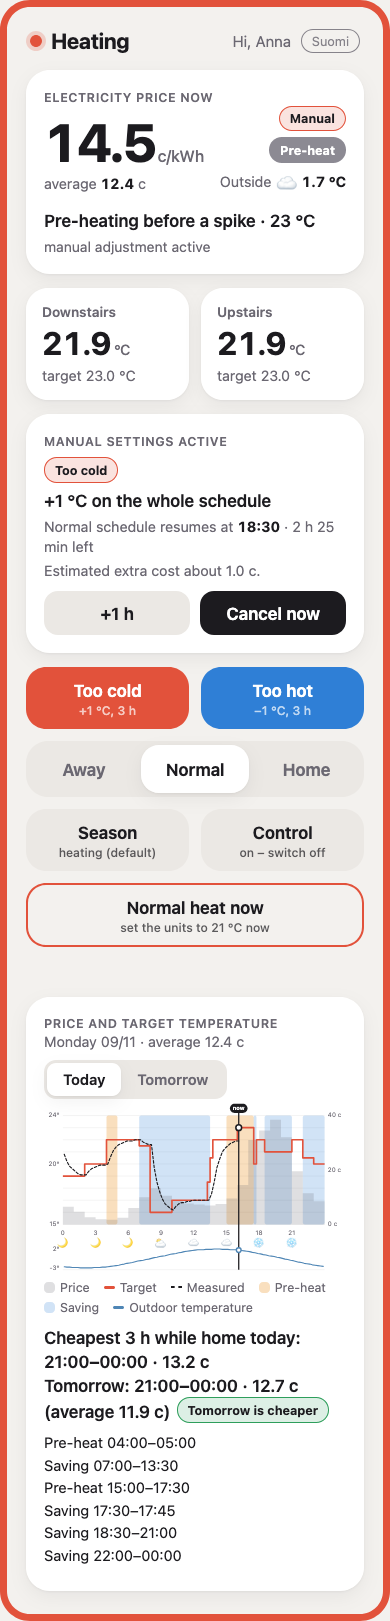
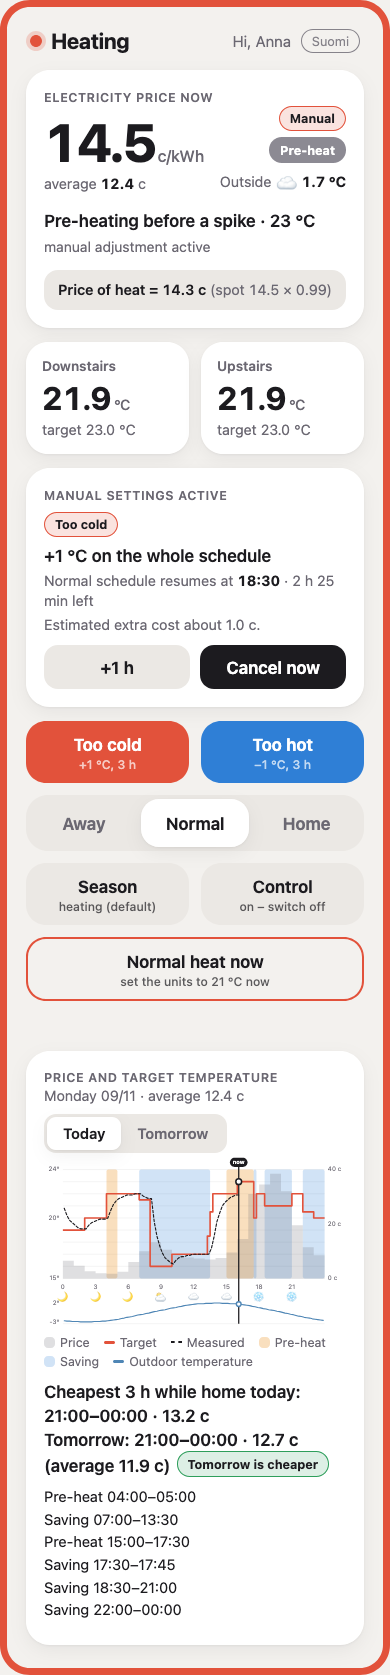
web: the price-of-heat box wraps cleanly; screenshot shows it
At phone width the line broke inside the sum, leaving "0.99)" on its own.
The result is now bold and the bracket muted and kept on one line, at the
size of the card's other small text. The screenshot script turns [cop] on
for its made-up data so the docs picture shows the box.

diff --git a/web_page.html b/web_page.html
@@ -60,7 +60,8 @@
   .price small { font-size: 1rem; font-weight: 500; color: var(--muted); letter-spacing: 0; margin-left: 2px; }
   .target { display: flex; flex-direction: column; align-items: flex-end; gap: 6px; }
   .cheap3 { margin-top: 10px; font-weight: 600; } .cheap3:empty { display: none; }
-  .heatbox { margin-top: 14px; font-weight: 600; padding: 10px 14px; border-radius: 14px; background: var(--tonal); font-variant-numeric: tabular-nums; }
+  .heatbox { margin-top: 14px; padding: 10px 14px; border-radius: 14px; background: var(--tonal); font-size: .9rem; font-variant-numeric: tabular-nums; }
+  .heatbox b { font-weight: 600; } .heatbox span { color: var(--muted); white-space: nowrap; }
   .avg { color: var(--muted); font-size: .9rem; margin-top: 6px; } .avg b { color: var(--ink); font-variant-numeric: tabular-nums; }
   .sym { font-size: 1.15rem; vertical-align: -2px; }
   .out { color: var(--muted); font-size: .9rem; margin-top: 6px; } .out b { color: var(--ink); font-variant-numeric: tabular-nums; }
@@ -405,9 +406,13 @@ function renderPrice(p) {
   if (avg != null) $("avgNow").append(T.average + " ", Object.assign(document.createElement("b"), {textContent: fmt(avg.toFixed(1))}), " c");
   const heat = n && n.heat_price != null ? n.heat_price : null;   // [cop] or [cool.cop] on: what the rules judge
   $("heatNow").hidden = heat == null;
-  if (heat != null)   // spot × the outdoor temperature's factor
-    $("heatNow").textContent = fill(p.mode === "cool" ? T.cool_price_calc : T.heat_price_calc,
+  if (heat != null) {   // spot × the outdoor temperature's factor; the bracket wraps as one piece
+    const line = fill(p.mode === "cool" ? T.cool_price_calc : T.heat_price_calc,
       {value: fmt(heat.toFixed(1)), spot: fmt(n.price.toFixed(1)), factor: fmt(n.heat_factor.toFixed(2))});
+    const cut = line.indexOf(" (");
+    $("heatNow").replaceChildren(Object.assign(document.createElement("b"), {textContent: cut < 0 ? line : line.slice(0, cut)}),
+      ...(cut < 0 ? [] : [" ", Object.assign(document.createElement("span"), {textContent: line.slice(cut + 1)})]));
+  }
   const pill = $("pill");
   pill.textContent = n ? n.pill : ""; pill.className = "pill " + (n ? n.kind : ""); pill.hidden = !n;
   $("whyText").textContent = n ? n.reason.text + " · " + fmt(n.target) + " °C" : T.no_plan;

diff --git a/scripts/phone-screenshot.py b/scripts/phone-screenshot.py
@@ -1,8 +1,8 @@
 """Mock screenshot of the phone page for the docs, captured by headless Firefox at phone width. All of it
 is made up, and none of this install's own data is read (control files, history, config.local.toml):
 the test house (tests/house.toml), two days of prices from sample_prices.json, an invented November
-forecast, history and room readings for the day so far in which the units followed the plan, and a
-"Too cold" press 35 minutes ago.
+forecast, history and room readings for the day so far in which the units followed the plan, a
+"Too cold" press 35 minutes ago, and the price of heat ([cop]) on, so the page shows its box.
 
     .venv/bin/python scripts/phone-screenshot.py [docs/phone-page.png]
 
@@ -50,7 +50,9 @@ def house(tmp: Path) -> dict:
     for old, new in UNITS.items():
         text = text.replace(old, new)
     local.write_text(text, encoding="utf-8")
-    return o.load_config(ROOT / "config.toml", local)
+    cfg = o.load_config(ROOT / "config.toml", local)
+    cfg["cop"] = {**cfg["cop"], "enabled": True}
+    return cfg
 
 
 def forecast() -> "o.OutdoorForecast":
@@ -103,6 +105,7 @@ def mock_page(tmp: Path) -> str:
     cfg = house(tmp)
     prices = o.parse_prices(json.loads((ROOT / "sample_prices.json").read_text(encoding="utf-8")))
     outdoor = forecast()
+    prices = o.heat_prices(prices, outdoor, cfg)
     o.set_nudge("warmer", TZ, cfg, PRESSED)
     today = plan(cfg, NOW, prices, outdoor)
     morning(cfg, app_dir, today["rows"], today["now_index"])
